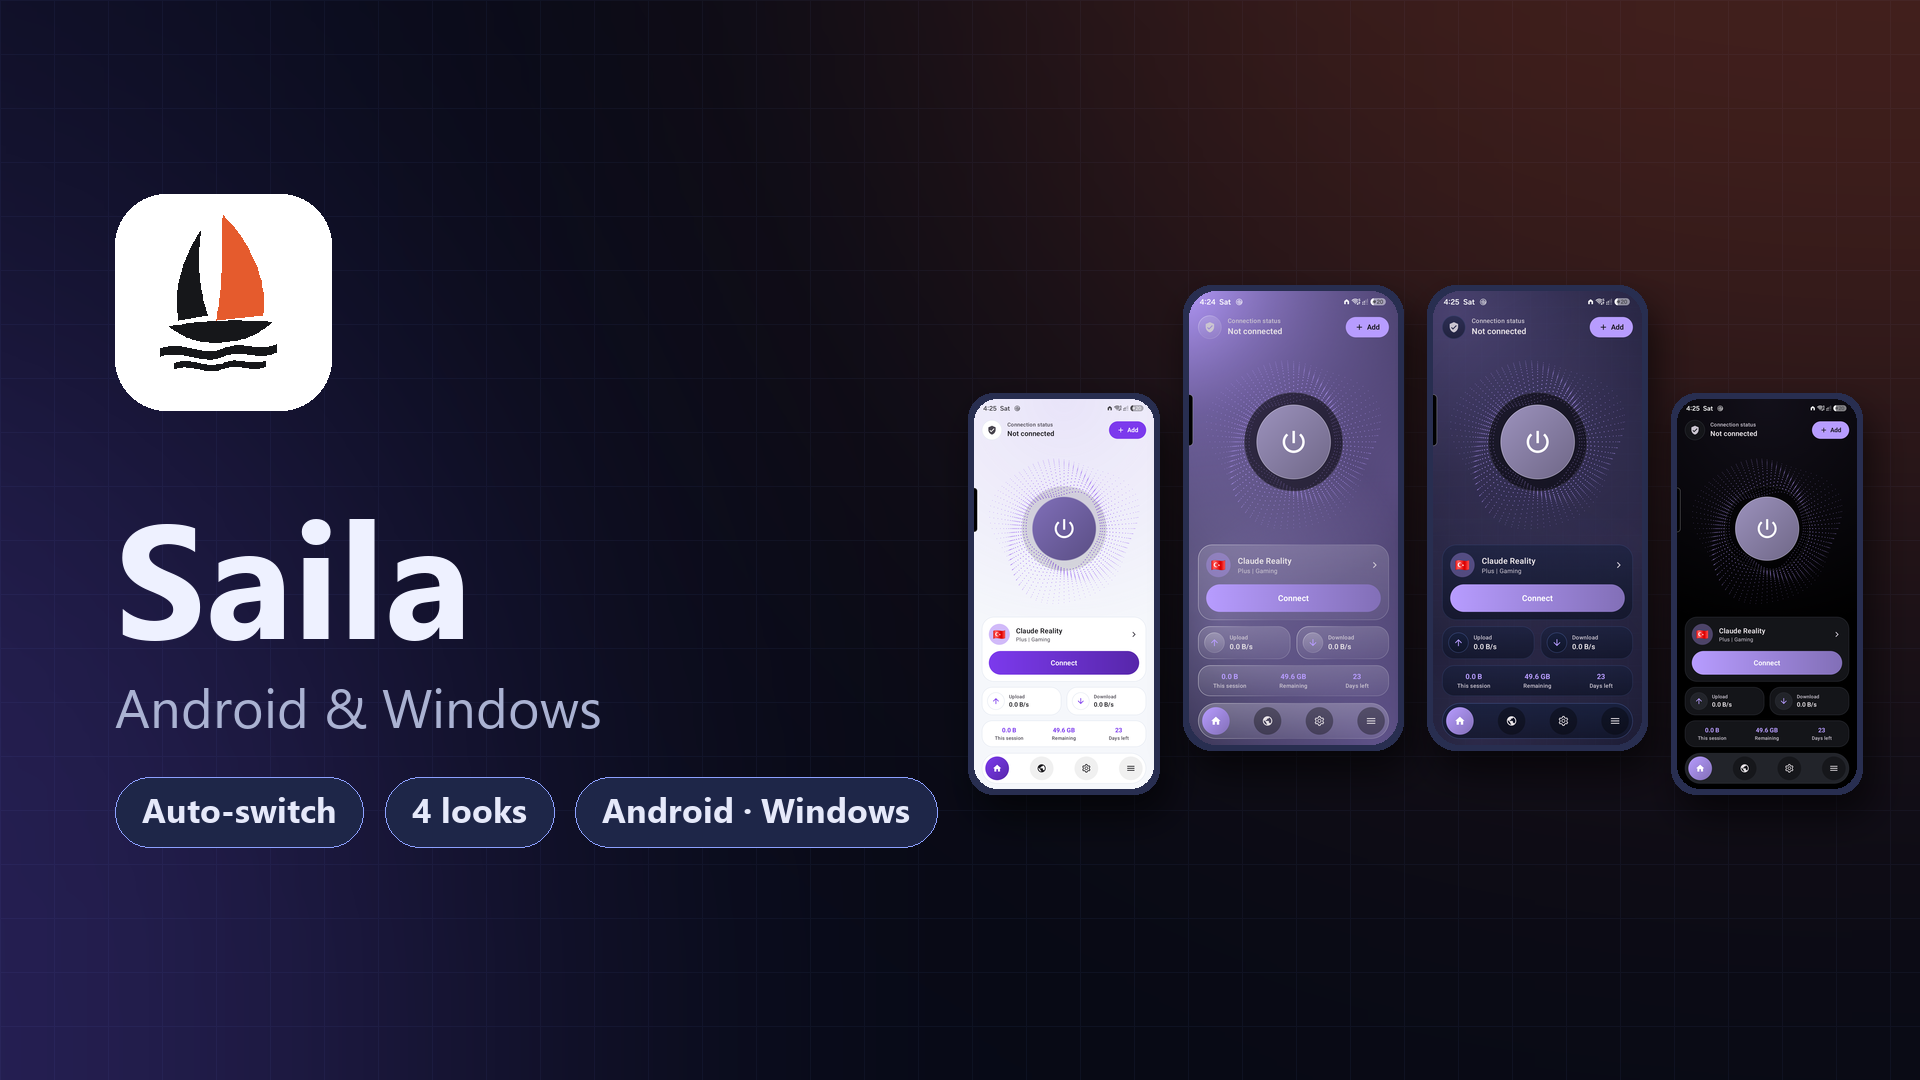
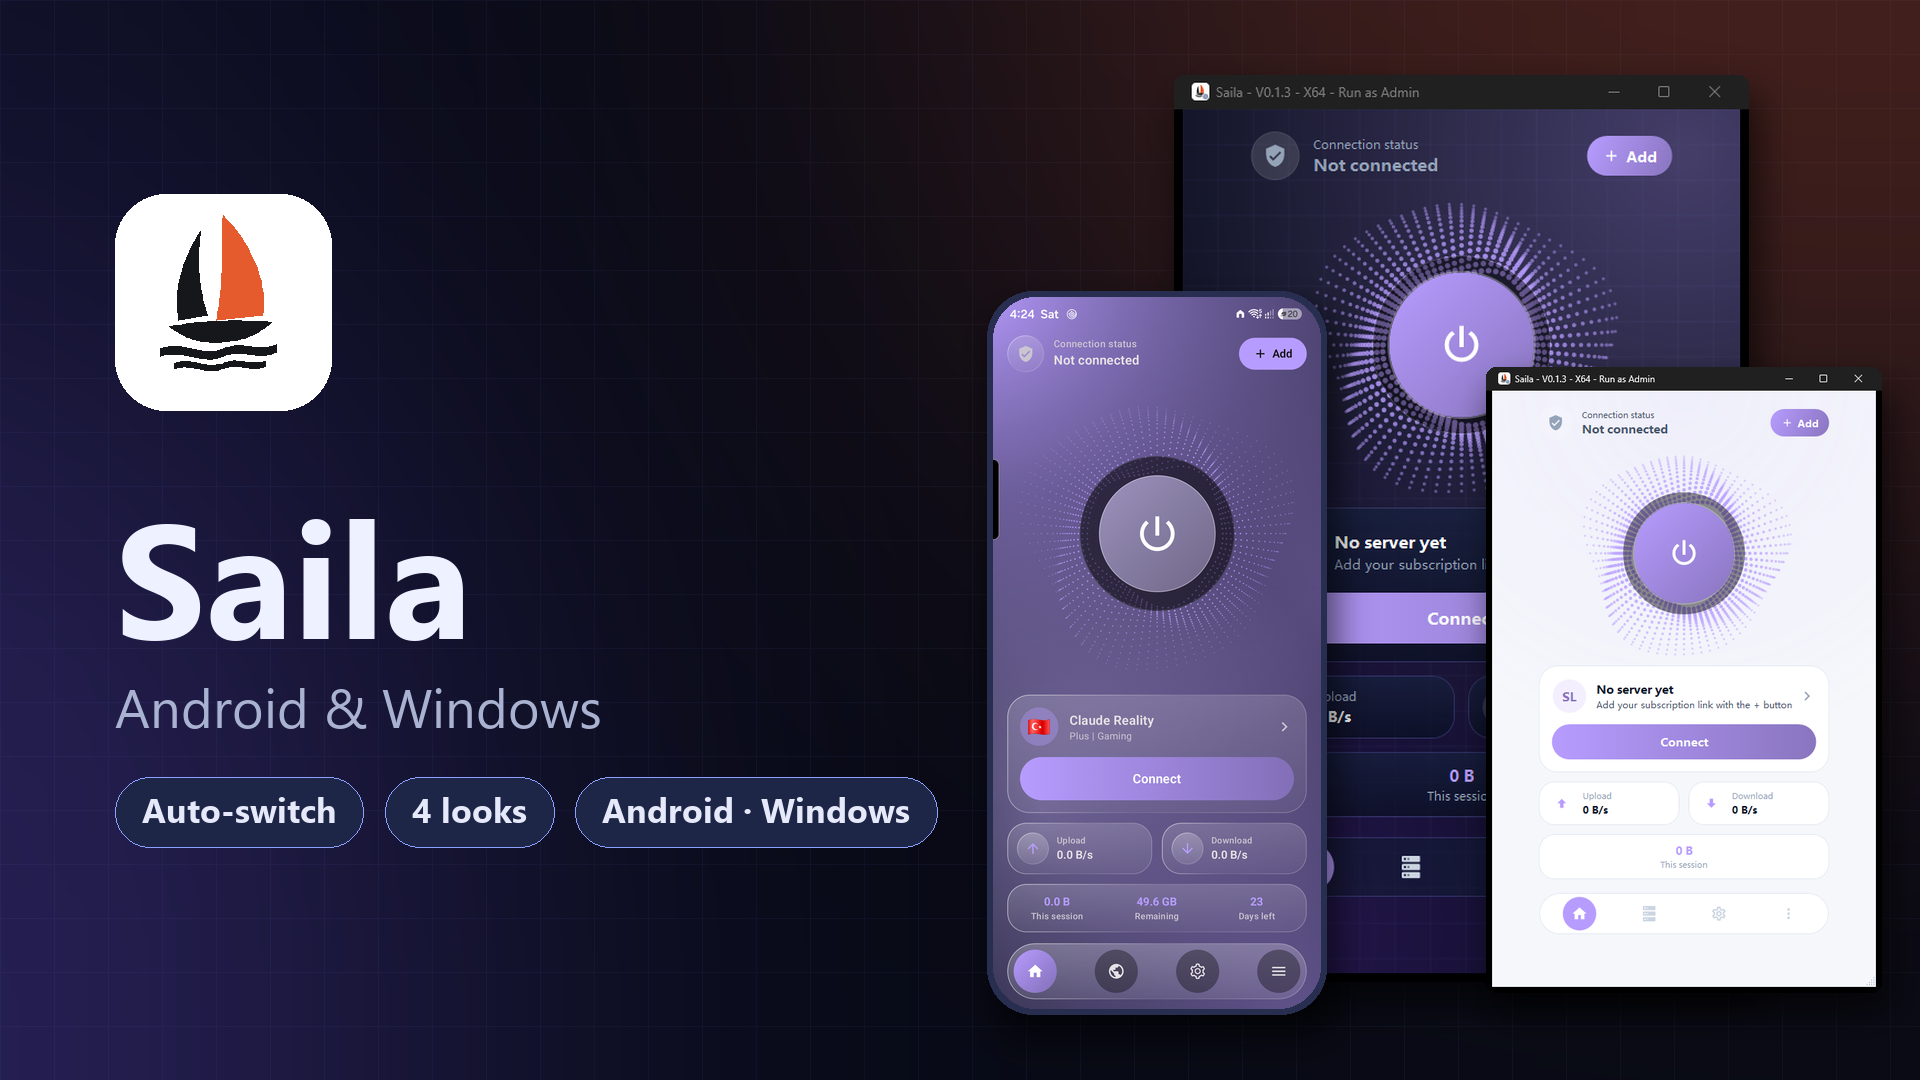
Saila 0.1.3-b5: Windows app with the Saila look, covers and docs from real screenshots

diff --git a/docs/index.html b/docs/index.html
@@ -74,6 +74,9 @@
     box-shadow: 0 30px 60px rgba(0, 0, 0, .5);
   }
   .shots img:nth-child(2) { transform: translateY(-28px); }
+  .shots.wins { flex-wrap: wrap; gap: 14px; }
+  .shots.wins img { width: min(23%, 260px); border-radius: 12px; transform: none; }
+  @media (max-width: 640px) { .shots.wins img { width: 47%; } }
 
   h2 { font-size: clamp(24px, 3vw, 34px); margin: 48px 0 20px; }
   .grid { display: grid; grid-template-columns: repeat(auto-fill, minmax(260px, 1fr)); gap: 16px; }
@@ -122,10 +125,19 @@
       <p class="note" data-en>Free and open source · Android 7+ and Windows 10/11 · most phones: arm64-v8a · not sure: universal</p>
     </div>
     <div class="shots">
-      <img src="screenshots/settings.png" alt="Settings">
-      <img src="screenshots/home.png" alt="Home">
-      <img src="screenshots/drawer.png" alt="Menu">
+      <img src="screenshots/theme-white.png" alt="White">
+      <img src="screenshots/theme-glass.png" alt="Glass">
+      <img src="screenshots/theme-nexus.png" alt="Nexus">
     </div>
+  </section>
+
+  <h2 data-fa>ویندوز، همان ظاهر</h2>
+  <h2 data-en>Windows, same look</h2>
+  <section class="shots wins">
+    <img src="screenshots/windows-nexus.png" alt="Windows Nexus">
+    <img src="screenshots/windows-glass.png" alt="Windows Glass">
+    <img src="screenshots/windows-white.png" alt="Windows White">
+    <img src="screenshots/windows-black.png" alt="Windows Black">
   </section>
 
   <h2 data-fa>چرا Saila؟</h2>

diff --git a/README.fa.md b/README.fa.md
@@ -16,9 +16,14 @@
 Saila یک کلاینت VPN برای اندروید است که با هستهی Xray کار میکند. لینک اشتراک خود را یک بار اضافه کنید؛ Saila یک سرور سالم انتخاب میکند، اگر از کار افتاد خودش سوییچ میکند و مزاحم شما نمیشود.
 
 <p align="center">
-  <img src="docs/screenshots/home.png" width="240" alt="صفحهی اصلی">
-  <img src="docs/screenshots/settings.png" width="240" alt="تنظیمات">
-  <img src="docs/screenshots/drawer.png" width="240" alt="منو">
+  <img src="docs/screenshots/theme-glass.png" width="190" alt="Glass">
+  <img src="docs/screenshots/theme-nexus.png" width="190" alt="Nexus">
+  <img src="docs/screenshots/theme-black.png" width="190" alt="Black">
+  <img src="docs/screenshots/theme-white.png" width="190" alt="White">
+</p>
+<p align="center">
+  <img src="docs/screenshots/windows-nexus.png" width="300" alt="Windows Nexus">
+  <img src="docs/screenshots/windows-white.png" width="300" alt="Windows White">
 </p>
 
 ## قابلیتها

diff --git a/README.md b/README.md
@@ -14,9 +14,14 @@
 Saila is an Xray-based VPN client for Android. Add your subscription link once; Saila picks a working server, switches by itself when one stops working, and stays out of your way.
 
 <p align="center">
-  <img src="docs/screenshots/home.png" width="240" alt="Home screen">
-  <img src="docs/screenshots/settings.png" width="240" alt="Settings">
-  <img src="docs/screenshots/drawer.png" width="240" alt="Menu">
+  <img src="docs/screenshots/theme-glass.png" width="190" alt="Glass">
+  <img src="docs/screenshots/theme-nexus.png" width="190" alt="Nexus">
+  <img src="docs/screenshots/theme-black.png" width="190" alt="Black">
+  <img src="docs/screenshots/theme-white.png" width="190" alt="White">
+</p>
+<p align="center">
+  <img src="docs/screenshots/windows-nexus.png" width="300" alt="Windows Nexus">
+  <img src="docs/screenshots/windows-white.png" width="300" alt="Windows White">
 </p>
 
 ## Features
